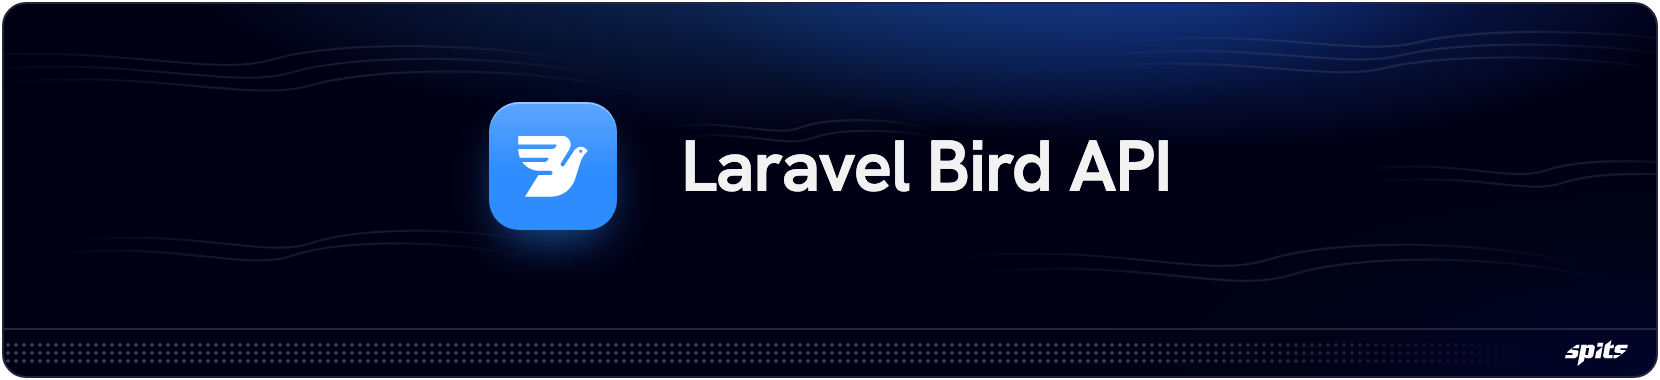
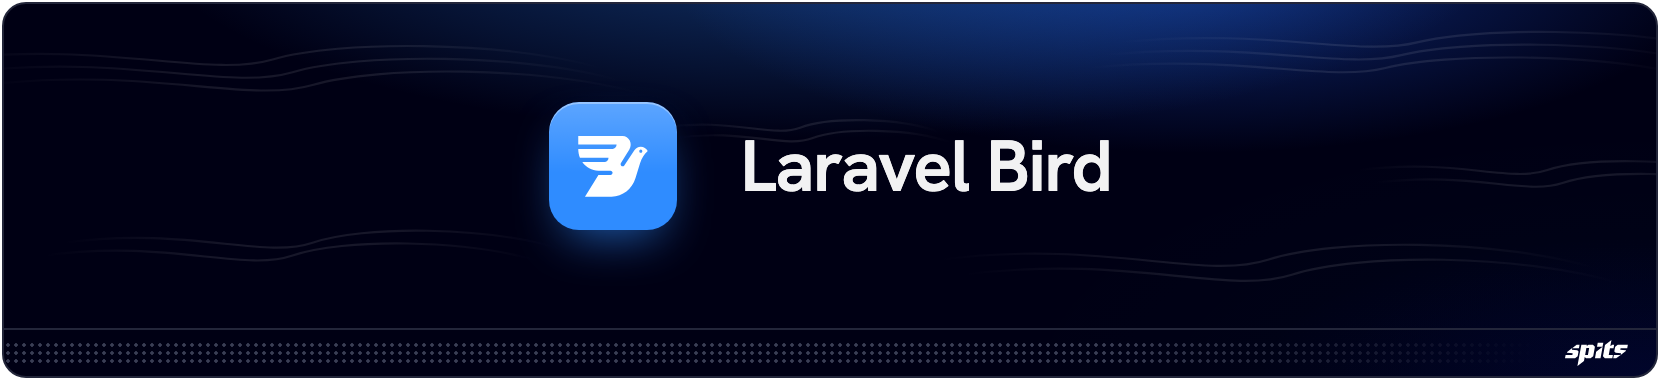
Rename the package to spits-online/laravel-bird

Changed region(s): [[0.2765, 0.2605, 0.7066, 0.6658]]

diff --git a/config/bird.php b/config/bird.php
@@ -44,7 +44,7 @@ return [
     | ids. Each entry takes a `project_id`, and optionally a `version`
     | (default `latest`) and `locale`. Empty here: templates belong to the app.
     |
-    | See https://github.com/Spits-online/laravel-bird-api#naming-templates
+    | See https://github.com/Spits-online/laravel-bird#naming-templates
     |
     */
 

diff --git a/README.md b/README.md
@@ -1,17 +1,17 @@
 <div align="left">
-  <a href="https://github.com/Spits-online/laravel-bird-api">
+  <a href="https://github.com/Spits-online/laravel-bird">
     <picture>
-      <source media="(prefers-color-scheme: dark)" srcset="https://raw.githubusercontent.com/Spits-online/laravel-bird-api/main/art/banner-dark.png">
-      <img alt="Laravel Bird API by Spits" src="https://raw.githubusercontent.com/Spits-online/laravel-bird-api/main/art/banner-light.png">
+      <source media="(prefers-color-scheme: dark)" srcset="https://raw.githubusercontent.com/Spits-online/laravel-bird/main/art/banner-dark.png">
+      <img alt="Laravel Bird by Spits" src="https://raw.githubusercontent.com/Spits-online/laravel-bird/main/art/banner-light.png">
     </picture>
   </a>
 
 <h1>Bird SMS and WhatsApp for Laravel</h1>
 
-[![Latest Version on Packagist](https://img.shields.io/packagist/v/spits-online/laravel-bird-api.svg?style=flat-square)](https://packagist.org/packages/spits-online/laravel-bird-api)
-[![Tests](https://img.shields.io/github/actions/workflow/status/Spits-online/laravel-bird-api/run-tests.yml?branch=main&label=tests&style=flat-square)](https://github.com/Spits-online/laravel-bird-api/actions/workflows/run-tests.yml)
-[![PHPStan](https://img.shields.io/github/actions/workflow/status/Spits-online/laravel-bird-api/phpstan.yml?branch=main&label=phpstan&style=flat-square)](https://github.com/Spits-online/laravel-bird-api/actions/workflows/phpstan.yml)
-[![Total Downloads](https://img.shields.io/packagist/dt/spits-online/laravel-bird-api.svg?style=flat-square)](https://packagist.org/packages/spits-online/laravel-bird-api)
+[![Latest Version on Packagist](https://img.shields.io/packagist/v/spits-online/laravel-bird.svg?style=flat-square)](https://packagist.org/packages/spits-online/laravel-bird)
+[![Tests](https://img.shields.io/github/actions/workflow/status/Spits-online/laravel-bird/run-tests.yml?branch=main&label=tests&style=flat-square)](https://github.com/Spits-online/laravel-bird/actions/workflows/run-tests.yml)
+[![PHPStan](https://img.shields.io/github/actions/workflow/status/Spits-online/laravel-bird/phpstan.yml?branch=main&label=phpstan&style=flat-square)](https://github.com/Spits-online/laravel-bird/actions/workflows/phpstan.yml)
+[![Total Downloads](https://img.shields.io/packagist/dt/spits-online/laravel-bird.svg?style=flat-square)](https://packagist.org/packages/spits-online/laravel-bird)
 
 </div>
 
@@ -45,7 +45,7 @@ class OrderShipped extends Notification
 ## Installation
 
 ```bash
-composer require spits-online/laravel-bird-api
+composer require spits-online/laravel-bird
 ```
 
 Add your credentials to `.env`. Only the channels you use need an id.

diff --git a/CHANGELOG.md b/CHANGELOG.md
@@ -1,6 +1,6 @@
 # Changelog
 
-All notable changes to `laravel-bird-api` will be documented in this file.
+All notable changes to `laravel-bird` will be documented in this file.
 
 The format is based on [Keep a Changelog](https://keepachangelog.com/en/1.1.0/),
 and this project adheres to [Semantic Versioning](https://semver.org/spec/v2.0.0.html).
@@ -56,8 +56,8 @@ and this project adheres to [Semantic Versioning](https://semver.org/spec/v2.0.0
 
 - Initial release.
 
-[Unreleased]: https://github.com/Spits-online/laravel-bird-api/compare/v2.0.0...HEAD
-[2.0.0]: https://github.com/Spits-online/laravel-bird-api/compare/V1.1.1...v2.0.0
-[1.1.1]: https://github.com/Spits-online/laravel-bird-api/compare/V1.1.0...V1.1.1
-[1.1.0]: https://github.com/Spits-online/laravel-bird-api/compare/V1.0.0...V1.1.0
-[1.0.0]: https://github.com/Spits-online/laravel-bird-api/releases/tag/V1.0.0
+[Unreleased]: https://github.com/Spits-online/laravel-bird/compare/v2.0.0...HEAD
+[2.0.0]: https://github.com/Spits-online/laravel-bird/compare/V1.1.1...v2.0.0
+[1.1.1]: https://github.com/Spits-online/laravel-bird/compare/V1.1.0...V1.1.1
+[1.1.0]: https://github.com/Spits-online/laravel-bird/compare/V1.0.0...V1.1.0
+[1.0.0]: https://github.com/Spits-online/laravel-bird/releases/tag/V1.0.0

diff --git a/.github/SECURITY.md b/.github/SECURITY.md
@@ -11,4 +11,4 @@
 
 **Please don't report security issues in public issues or discussions.**
 
-Use GitHub's [private vulnerability reporting](https://github.com/Spits-online/laravel-bird-api/security/advisories/new), or email **webapps@spits.online**. You'll get a reply within 3 working days. Fixes are released as a patch version and published as a GitHub Security Advisory.
+Use GitHub's [private vulnerability reporting](https://github.com/Spits-online/laravel-bird/security/advisories/new), or email **webapps@spits.online**. You'll get a reply within 3 working days. Fixes are released as a patch version and published as a GitHub Security Advisory.

diff --git a/UPGRADE.md b/UPGRADE.md
@@ -7,7 +7,7 @@ Version 2 is a rewrite. Most changes are renames you can do with search and repl
 ### Checklist
 
 - [ ] You're on PHP 8.3+ and Laravel 12 or 13
-- [ ] `composer require spits-online/laravel-bird-api:^2.0`
+- [ ] Switch to the new package name: `composer remove spits-online/laravel-bird-api`, then `composer require spits-online/laravel-bird:^2.0`
 - [ ] Replace `Spits\Bird\` with `SpitsOnline\Bird\` across your app
 - [ ] Rename the classes and methods below
 - [ ] If you published `config/bird.php`, shrink it to the keys you actually change. The rest now comes from the package, merged key by key
